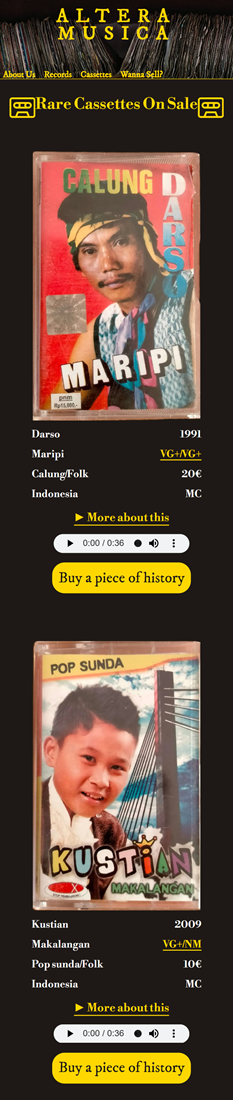
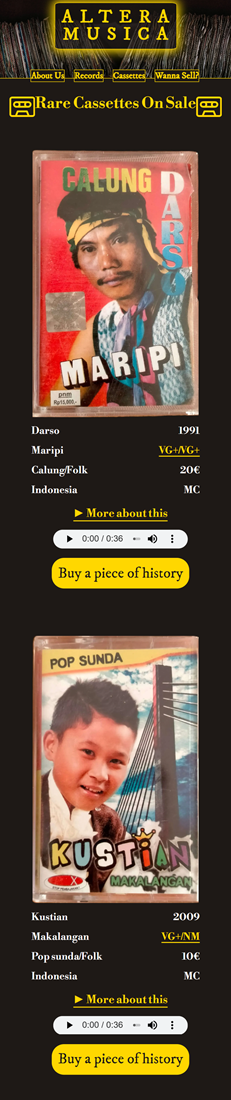
Add pictures and change text in cassettes section in README.md

Changed region(s): [[0.0, 0.0, 0.9697, 0.9891], [0.5455, 0.1545, 0.5758, 0.1855]]

diff --git a/README.md b/README.md
@@ -370,7 +370,7 @@ This structure is identical in the [Cassettes](#cassettes) page. These informati
     7. the price;
     8. the country of production;
     9. the kind of format.
-This structure is identical in the [Records](#records) page. These informations are displayed without borders showing up to avoid a too formal appearance;
+This structure is identical in the [Records](#records) page. These informations are displayed without borders showing up to avoid a too formal appearance, except for a thin golden bottom border to give a minimum idea of separation;
 - to explain better the acronyms related to the support and cover conditions (that may be obscure to the majority of users) I highlighted them as a classic link (gold colour and underline): if the user click on them hover over them, the cursor will show a normal arrow *but* with a question mark on its side: by clicking, he/she will be sent to the bottom of the page, where a basic explanation can be found: at the end of it, an external link to an in-depth article about this grading scale will be found;
 - it has a **"More about this"** sub-section which is basically a dropdown menu containing additional information about the cassette in question and its band/artist;
 - it is possible to listen to a short extract (with no autoplay) from the cassette thanks to an **audio element**;
